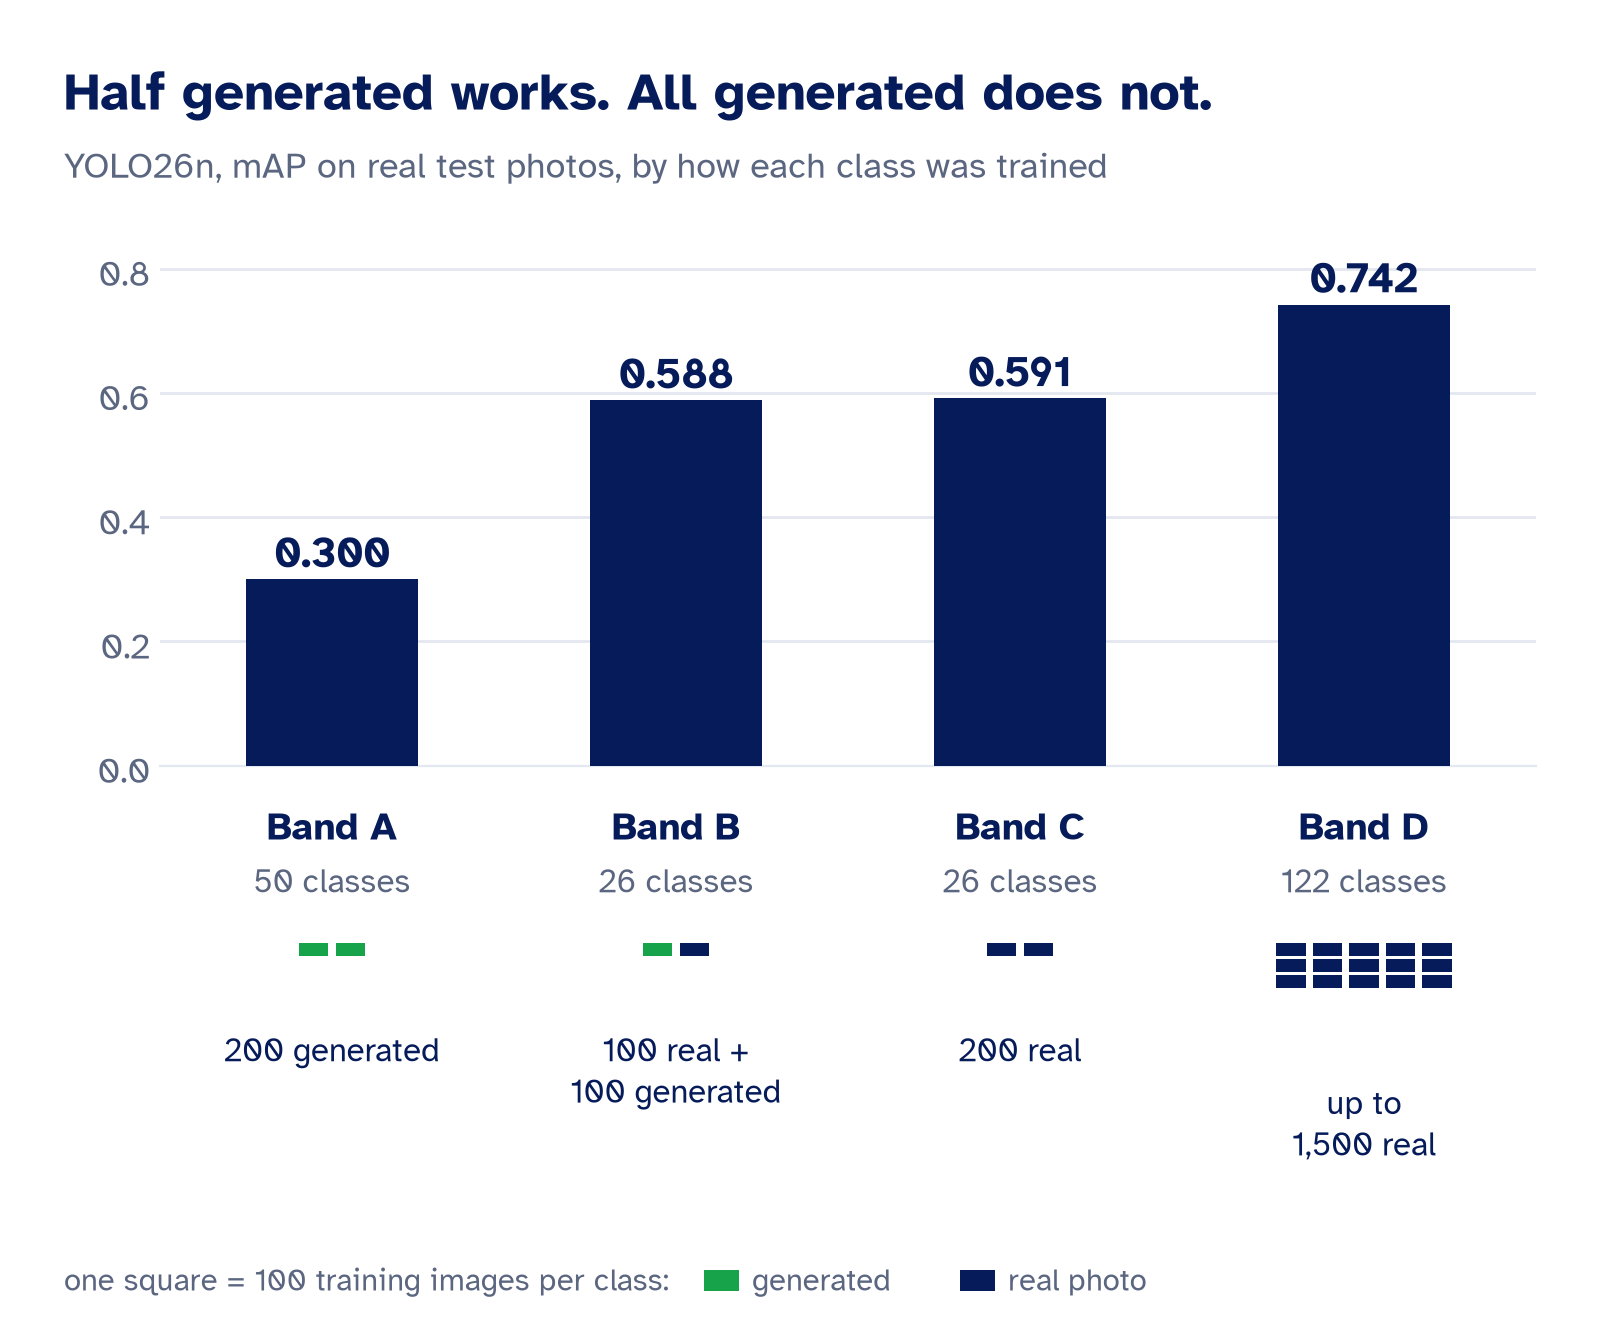
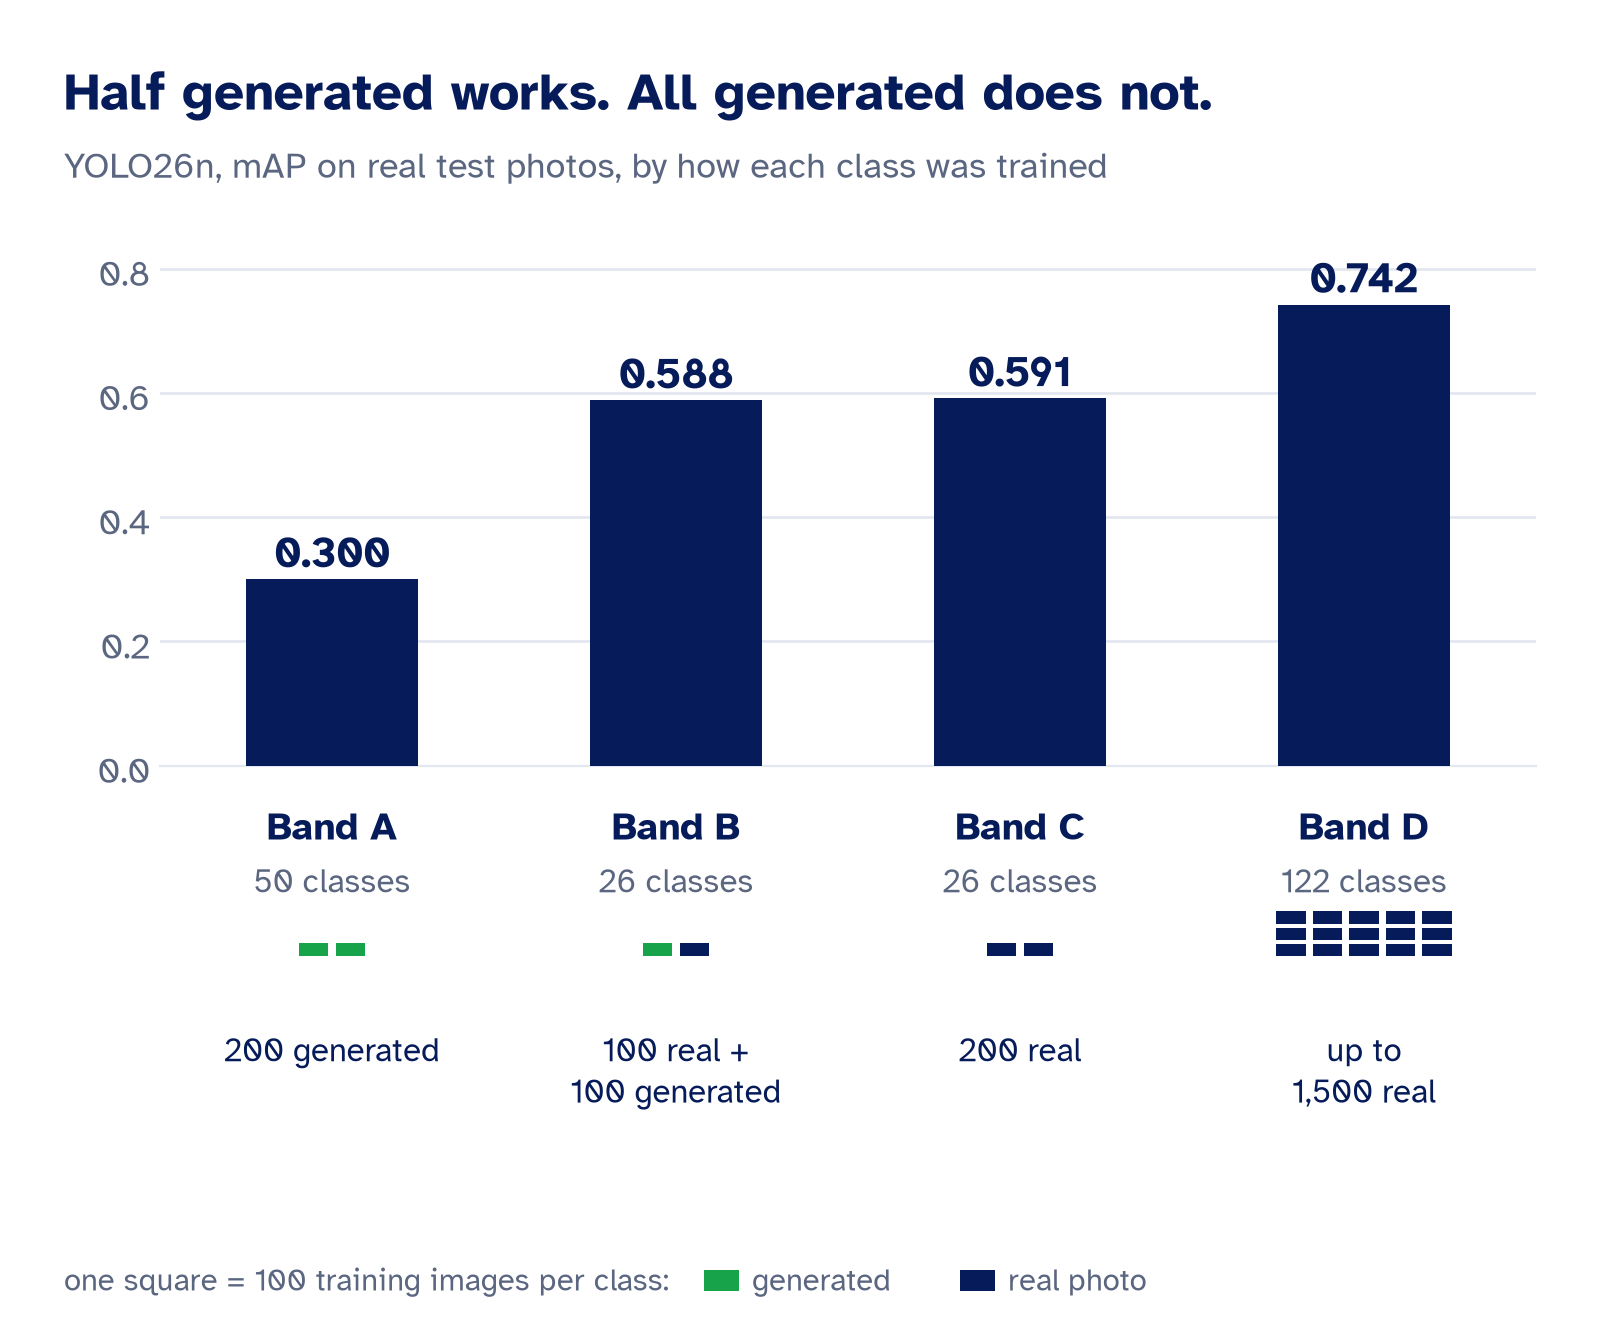
blog: align the band captions, record the light-figure decision

Changed region(s): [[0.7812, 0.6833, 0.9062, 0.7455], [0.8125, 0.7765, 0.9062, 0.8697]]

diff --git a/thesis/blog/plots/make_plots.py b/thesis/blog/plots/make_plots.py
@@ -170,8 +170,8 @@ def bands(t: dict) -> None:
                 transform=ax.get_xaxis_transform())
         ax.text(i, -0.18, f"{n} classes", ha="center", va="top", fontsize=BASE - 1, color=t["muted"],
                 transform=ax.get_xaxis_transform())
-        squares(ax, t, i, -0.36, g, r)
-        ax.text(i, -0.50 if b != "D" else -0.60, cap, ha="center", va="top", fontsize=BASE - 1,
+        squares(ax, t, i, -0.30 if b == "D" else -0.36, g, r)
+        ax.text(i, -0.50, cap, ha="center", va="top", fontsize=BASE - 1,
                 color=t["ink"], transform=ax.get_xaxis_transform())
     ax.set_xlim(-0.5, 3.5)
     ax.set_ylim(0, 0.85)

diff --git a/thesis/blog/visuals.md b/thesis/blog/visuals.md
@@ -99,5 +99,7 @@ static, because hatched bars show the same thing without asking the reader to wa
    Wikimedia rejects and every real animal photo (licence and attribution per image).
 2. **Video route:** ask the blog editors whether self-hosted MP4 with autoplay/loop is
    possible. If not, the clips go in as animated WebP, or as posters linking to YouTube.
-3. **Light or dark:** compare `plots/out/ranking.png` and `ranking_dark.png`.
-4. **Hero:** composite or plain product photo.
+3. **Hero:** candidates are being built in `figures/hero/`, in the style of the blog's
+   other featured images.
+
+Decided on 2026-11-11: light figures (`ranking_dark.png` stays only as the comparison).
